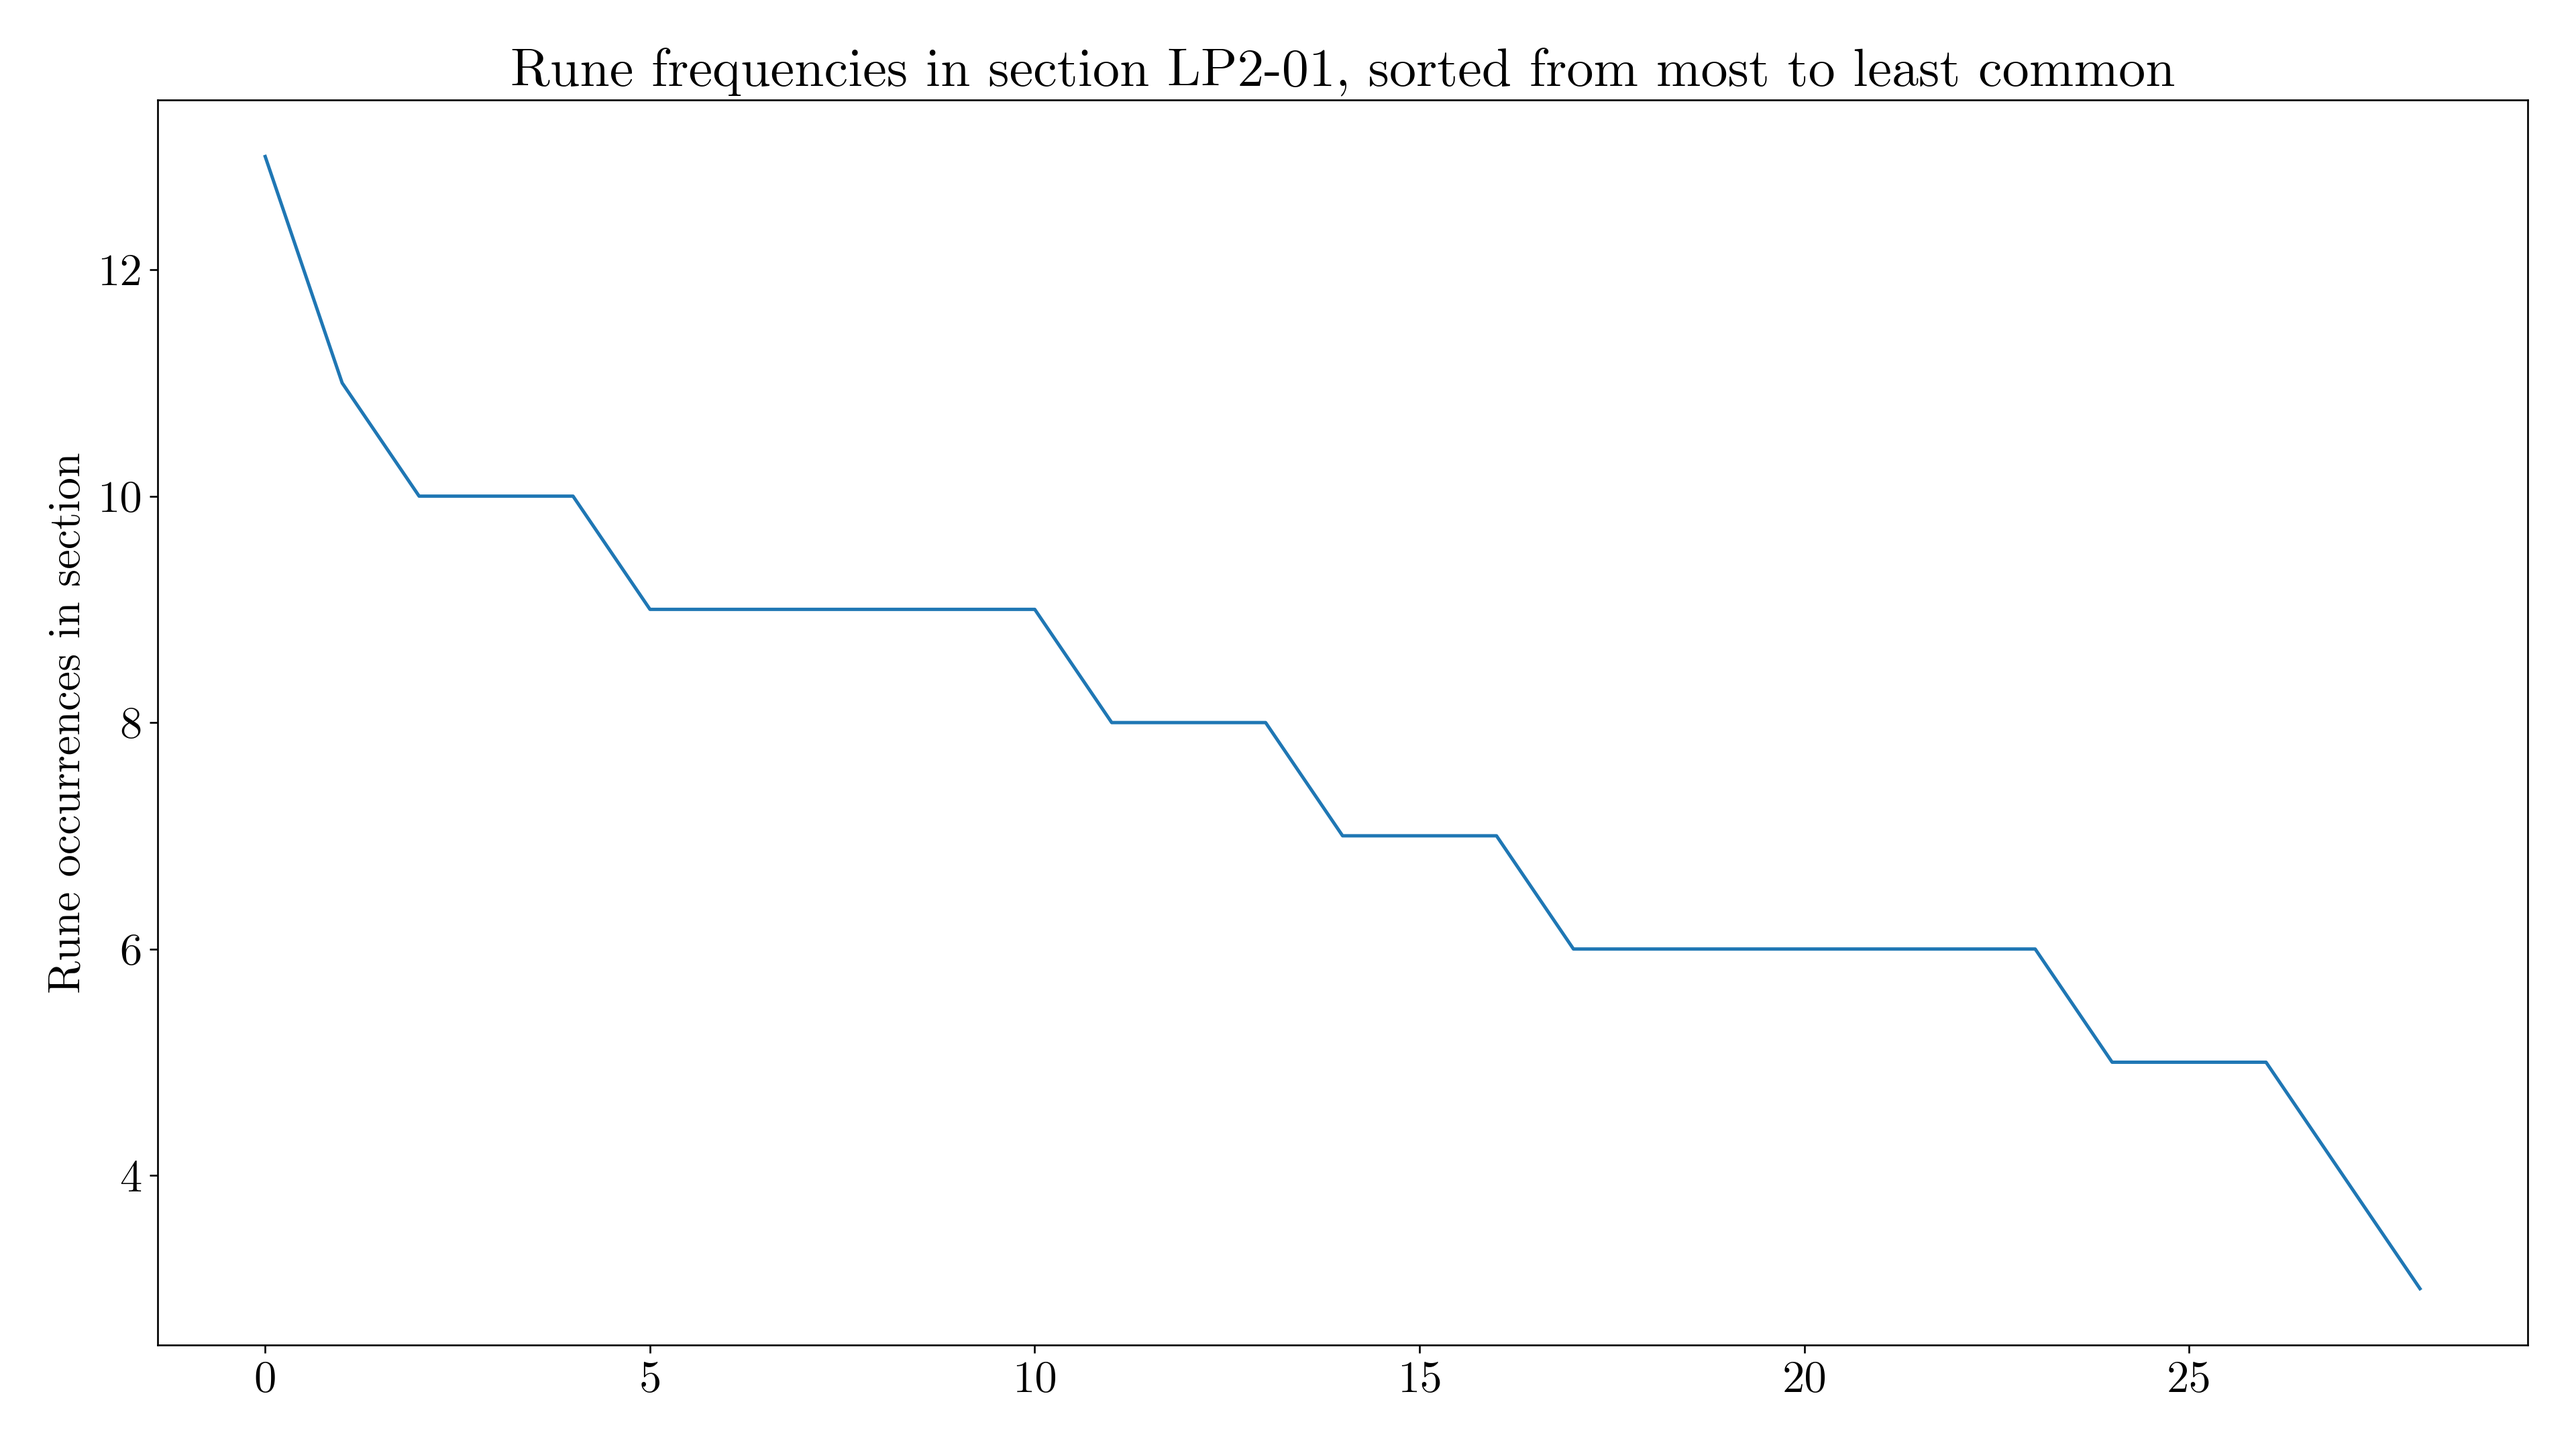
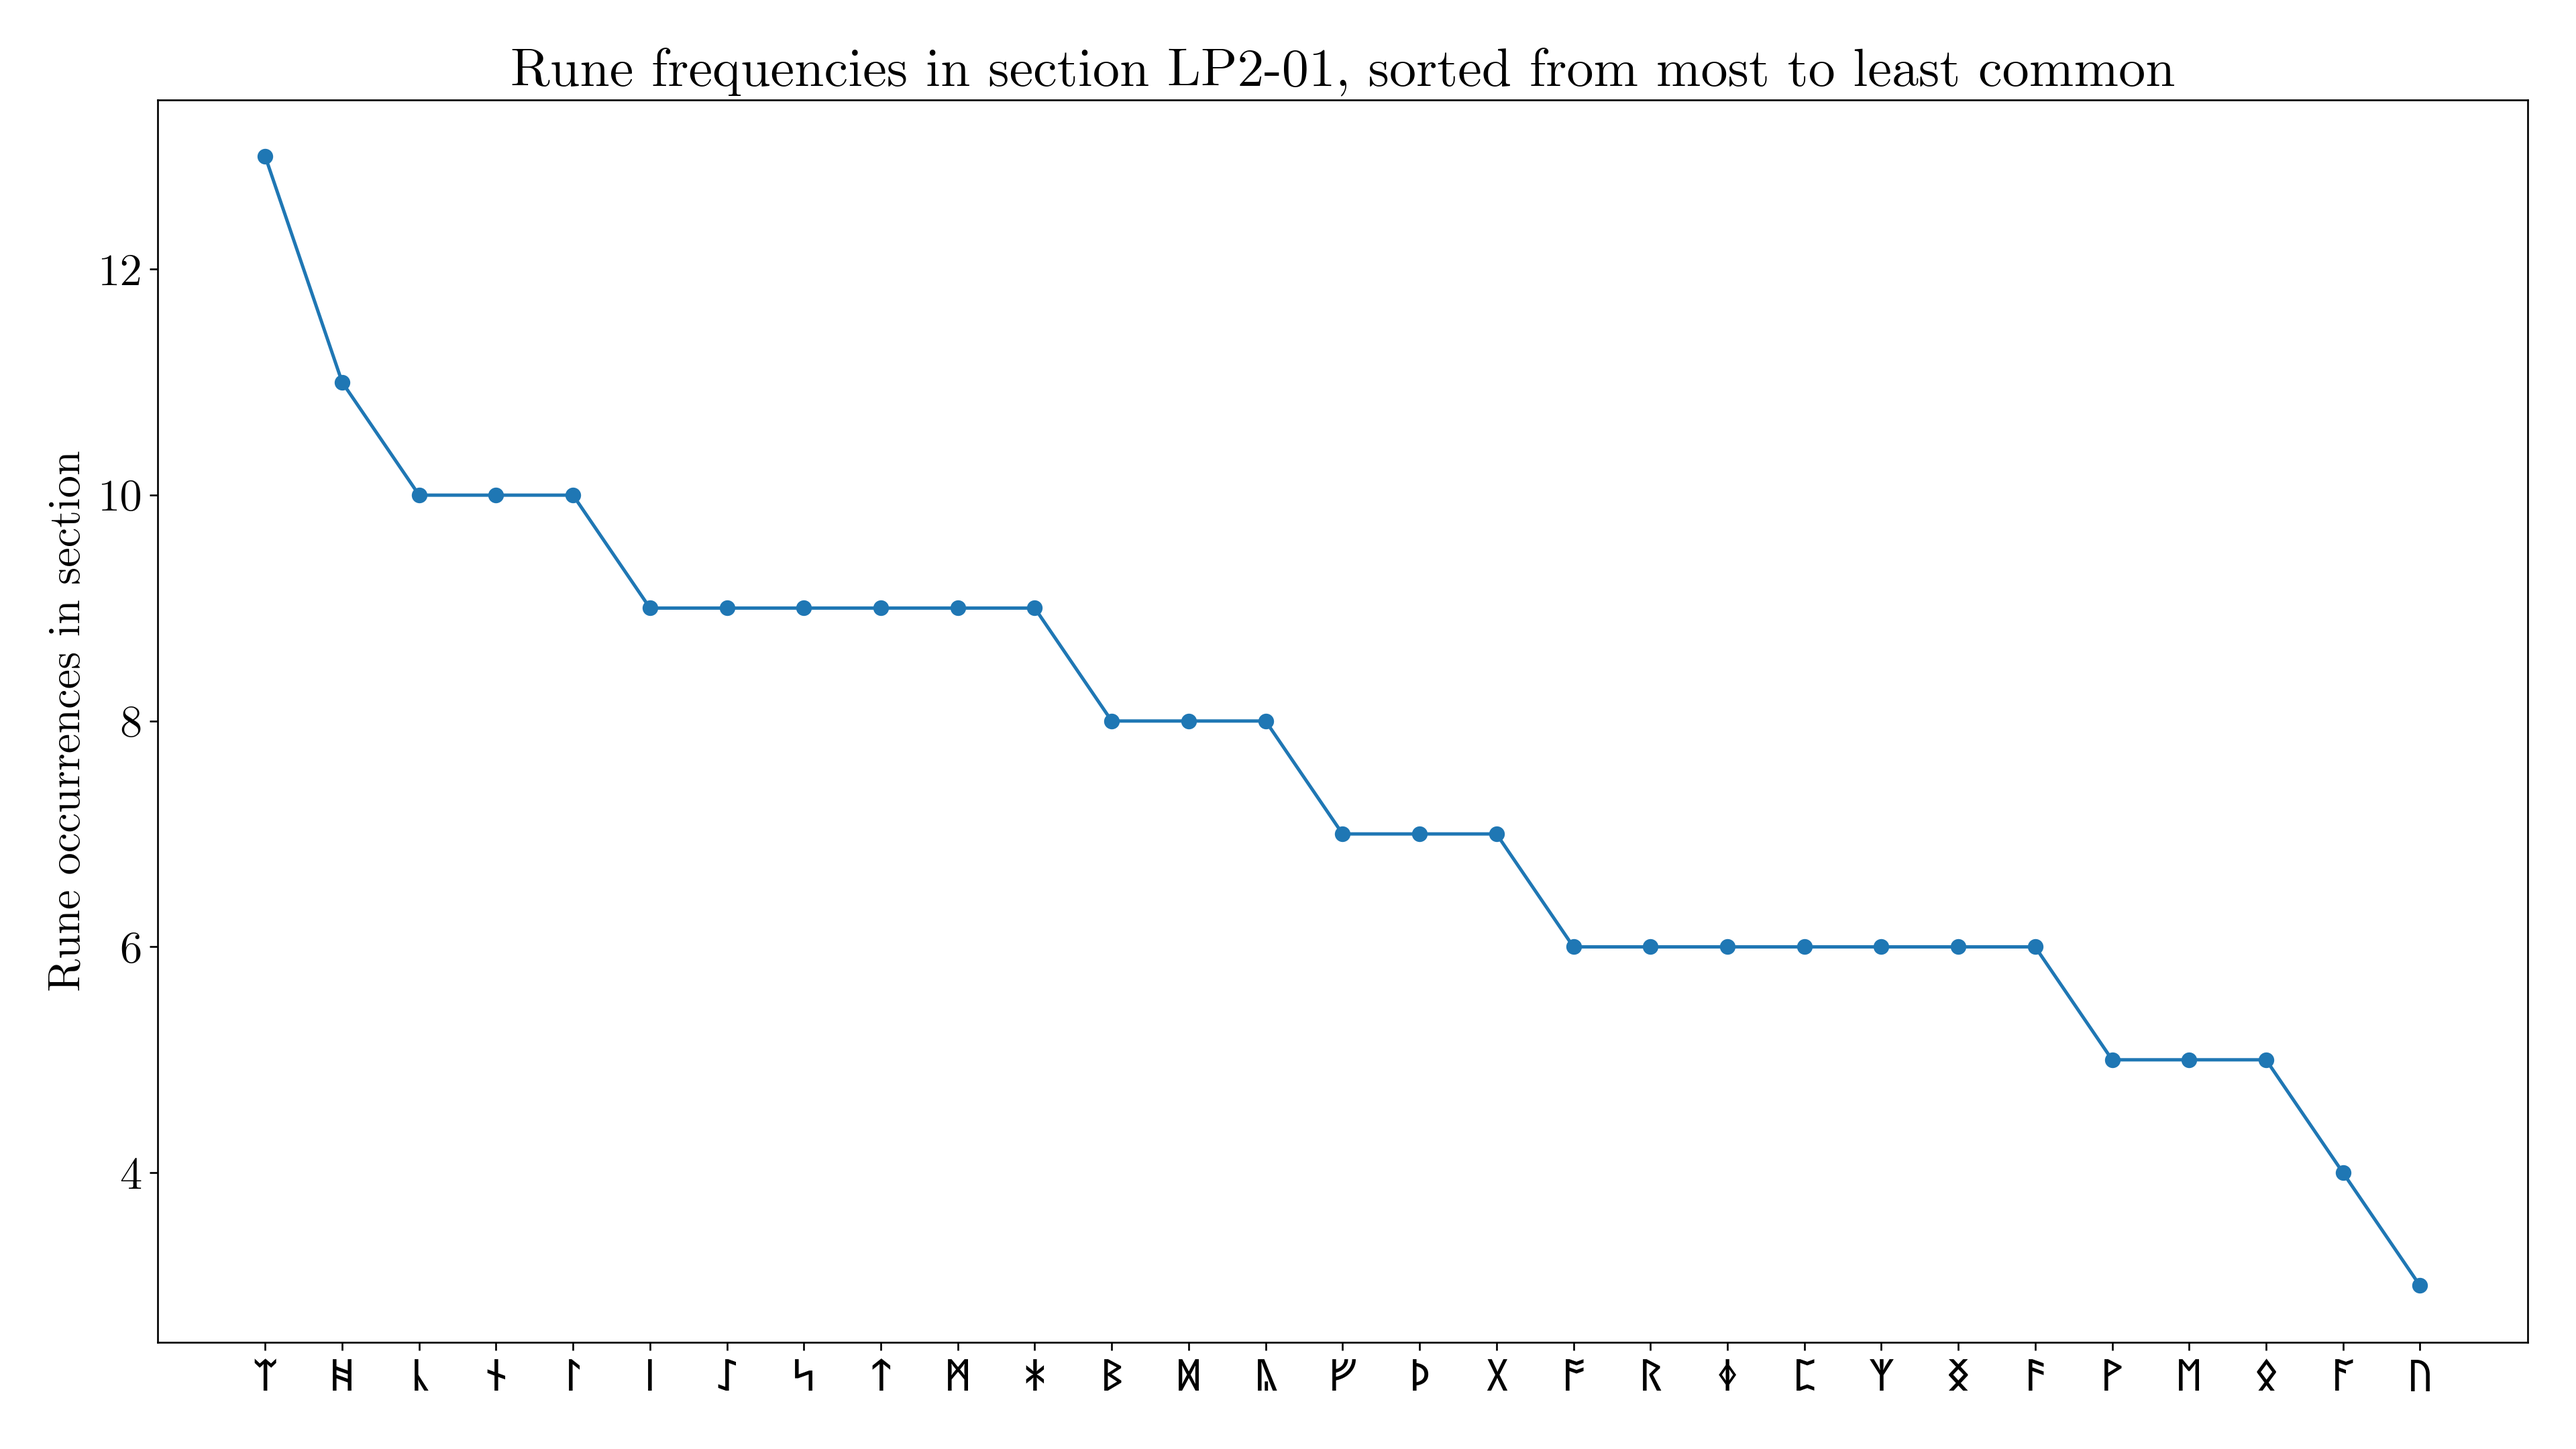
Add rune display on relative frequency plots

diff --git a/tools/rune_frequency_plotter.py b/tools/rune_frequency_plotter.py
@@ -20,6 +20,8 @@ def main():
 
             fm.fontManager.ttflist.append(
                 fm.FontEntry(fname="C:/Windows/Fonts/cmunrm.ttf", name="Computer Modern Serif"))
+            fm.fontManager.ttflist.append(
+                fm.FontEntry(fname="C:/Windows/Fonts/seguihis.ttf", name="Segoe UI Historic"))  # This font must support runic characters.
 
             plt.rcParams["figure.figsize"] = [16, 9]
             plt.rcParams["figure.dpi"] = 240
@@ -27,6 +29,9 @@ def main():
             plt.rcParams["font.family"] = "Computer Modern Serif"
             plt.rcParams['axes.unicode_minus'] = False
             plt.plot(sorted(frequencyData.values(), reverse=True))
+            plt.scatter(sorted(frequencyData.keys(), key=lambda x: frequencyData[x], reverse=True),
+                        sorted(frequencyData.values(), reverse=True))
+            plt.xticks(fontname="Segoe UI Historic")
             plt.title(
                 f"Rune frequencies in section {part}-{sectionPath.split('.')[0].zfill(2)}, sorted from most to least common")
             plt.ylabel(
